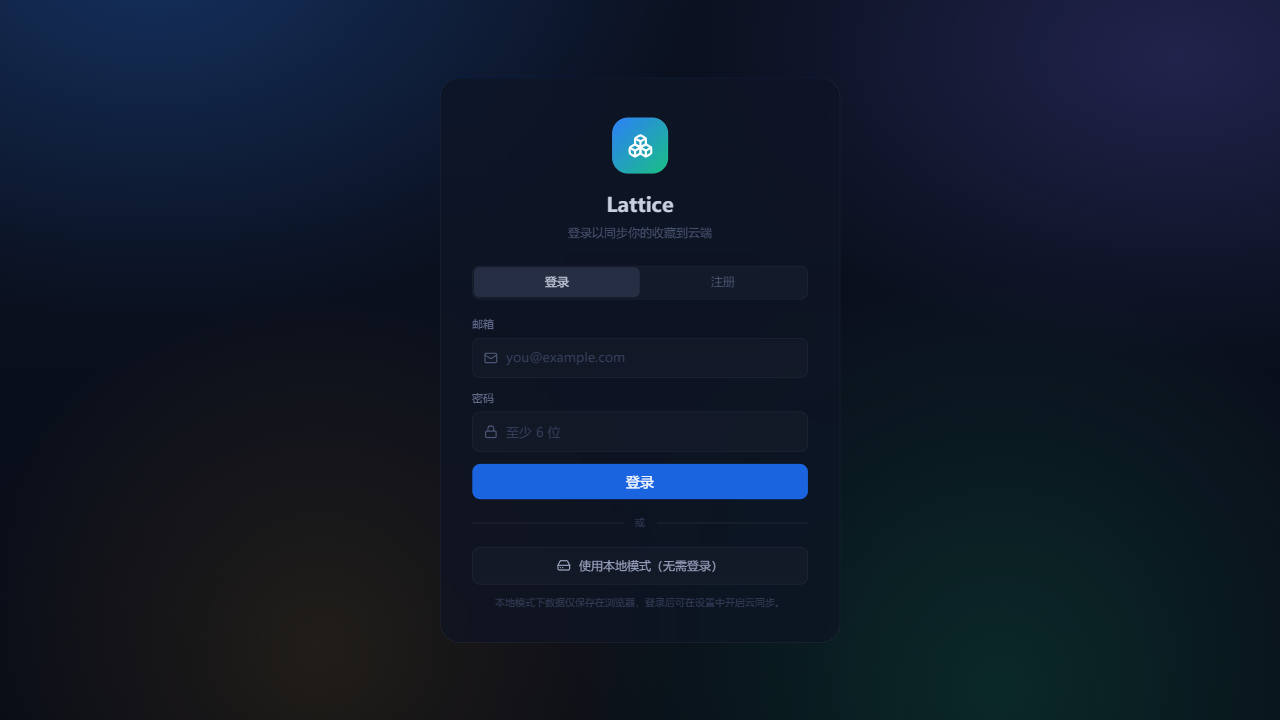
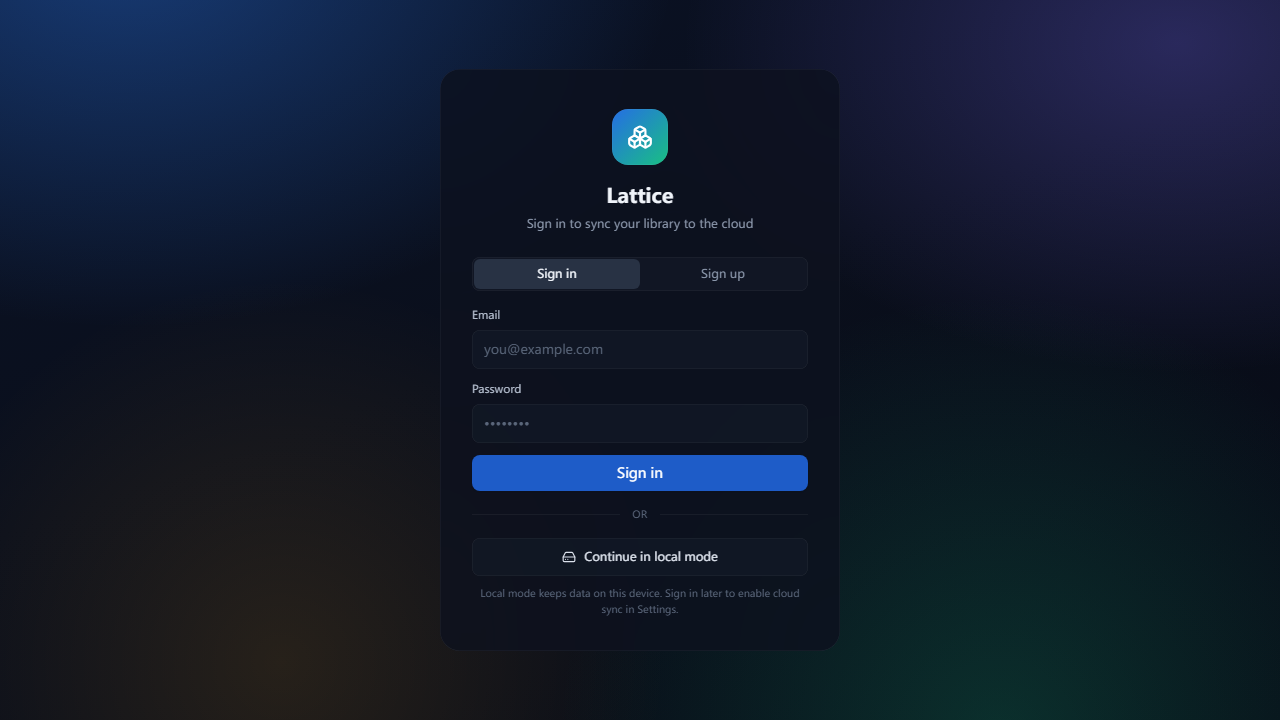
docs: update README screenshots using English initial data

diff --git a/ui/tests/generate-readme-screenshots.spec.ts b/ui/tests/generate-readme-screenshots.spec.ts
@@ -1,0 +1,145 @@
+import { expect, test } from '@playwright/test';
+import { resolve } from 'node:path';
+
+const screenshotDir = resolve('./screenshot');
+
+test.describe('Generate README Screenshots', () => {
+  test.use({ viewport: { width: 1280, height: 720 } });
+
+  test('generate login screen screenshot', async ({ page }) => {
+    // 0. Login screenshot
+    await page.goto('/');
+    await page.evaluate(() => localStorage.clear());
+    await page.reload();
+    await expect(page.getByRole('button', { name: 'Continue in local mode' })).toBeVisible();
+    await page.waitForTimeout(300);
+
+    await page.screenshot({
+      path: resolve(screenshotDir, 'login.png'),
+      fullPage: true,
+    });
+  });
+
+  test('generate all README screenshots with English initial data', async ({ page }) => {
+    // 1. Dashboard screenshot
+    await page.goto('/');
+    await page.evaluate(() => localStorage.clear());
+    await page.reload();
+    await page.getByRole('button', { name: 'Continue in local mode' }).click();
+
+    // Select Coolors card to open detail panel on right
+    await page.getByLabel('Content Area').getByText('Coolors — Super Fast Color Schemes Generator').first().click();
+    await expect(page.getByLabel('Detail Panel', { exact: true })).toBeVisible();
+    await page.waitForTimeout(500);
+
+    await page.screenshot({
+      path: resolve(screenshotDir, 'dashboard.png'),
+      fullPage: true,
+    });
+
+    // 1b. Edit / View Notes screenshot
+    await page.screenshot({
+      path: resolve(screenshotDir, 'edit_notes.png'),
+      fullPage: true,
+    });
+
+    // 2. Spotlight screenshot
+    await page.getByLabel('Top bar').click();
+    await page.keyboard.press('Control+k');
+    const spotlightDialog = page.getByRole('dialog', { name: 'Spotlight' });
+    await expect(spotlightDialog).toBeVisible();
+    await page.waitForTimeout(300);
+
+    await page.screenshot({
+      path: resolve(screenshotDir, 'spotlight.png'),
+      fullPage: true,
+    });
+
+    // Close Spotlight
+    await page.keyboard.press('Escape');
+    await expect(spotlightDialog).not.toBeVisible();
+
+    // 3. AI Insights screenshot
+    await page.getByText('Insights', { exact: true }).click();
+    const insightsDialog = page.getByRole('dialog', { name: 'Insights report' });
+    await expect(insightsDialog).toBeVisible();
+    await page.waitForTimeout(300);
+
+    await page.screenshot({
+      path: resolve(screenshotDir, 'ai_insights.png'),
+      fullPage: true,
+    });
+
+    // Close Insights
+    await page.keyboard.press('Escape');
+    await expect(insightsDialog).not.toBeVisible();
+
+    // 4. Add Bookmark screenshot
+    await page.getByRole('button', { name: 'New', exact: true }).click();
+    const newBookmarkDialog = page.getByRole('dialog', { name: 'New Bookmark' });
+    await expect(newBookmarkDialog).toBeVisible();
+    await page.waitForTimeout(300);
+
+    await page.screenshot({
+      path: resolve(screenshotDir, 'add_bookmark.png'),
+      fullPage: true,
+    });
+
+    // Close Add Bookmark
+    await page.keyboard.press('Escape');
+    await expect(newBookmarkDialog).not.toBeVisible();
+
+    // 5. Settings screenshot
+    await page.getByRole('button', { name: 'Settings' }).click();
+    const settingsDialog = page.getByRole('dialog', { name: 'Settings' });
+    await expect(settingsDialog).toBeVisible();
+    await page.waitForTimeout(300);
+
+    await page.screenshot({
+      path: resolve(screenshotDir, 'settings.png'),
+      fullPage: true,
+    });
+
+    // Close Settings
+    await page.keyboard.press('Escape');
+    await expect(settingsDialog).not.toBeVisible();
+  });
+
+  test('generate Health Check screenshot', async ({ page }) => {
+    // 6. Health Check screenshot (using e2eHealth=1 for mock scan)
+    await page.goto('/?e2eHealth=1');
+    await page.evaluate(() => localStorage.clear());
+    await page.reload();
+    await page.getByRole('button', { name: 'Continue in local mode' }).click();
+
+    // Mock route for health scan requests so scan finishes cleanly
+    await page.route('**/e2e-health/**', async (route) => {
+      const changed = route.request().url().endsWith('/changed');
+      await route.fulfill({
+        status: changed ? 200 : 404,
+        headers: { 'access-control-allow-origin': '*' },
+        body: changed ? 'changed content' : 'missing',
+      });
+    });
+
+    await page.getByLabel('Content Area').getByText('Coolors — Super Fast Color Schemes Generator').first().click();
+    await expect(page.getByLabel('Detail Panel', { exact: true })).toBeVisible();
+
+    await page
+      .getByLabel('Detail Panel', { exact: true })
+      .getByRole('button', { name: /Link is healthy|Content updated|Link may be broken/ })
+      .click();
+
+    const healthDialog = page.getByRole('dialog', { name: 'Health check' });
+    await expect(healthDialog).toBeVisible();
+
+    await healthDialog.getByRole('button', { name: 'Start scan' }).click();
+    await expect(healthDialog.getByText('Scan completed')).toBeVisible();
+    await page.waitForTimeout(300);
+
+    await page.screenshot({
+      path: resolve(screenshotDir, 'health_check.png'),
+      fullPage: true,
+    });
+  });
+});
